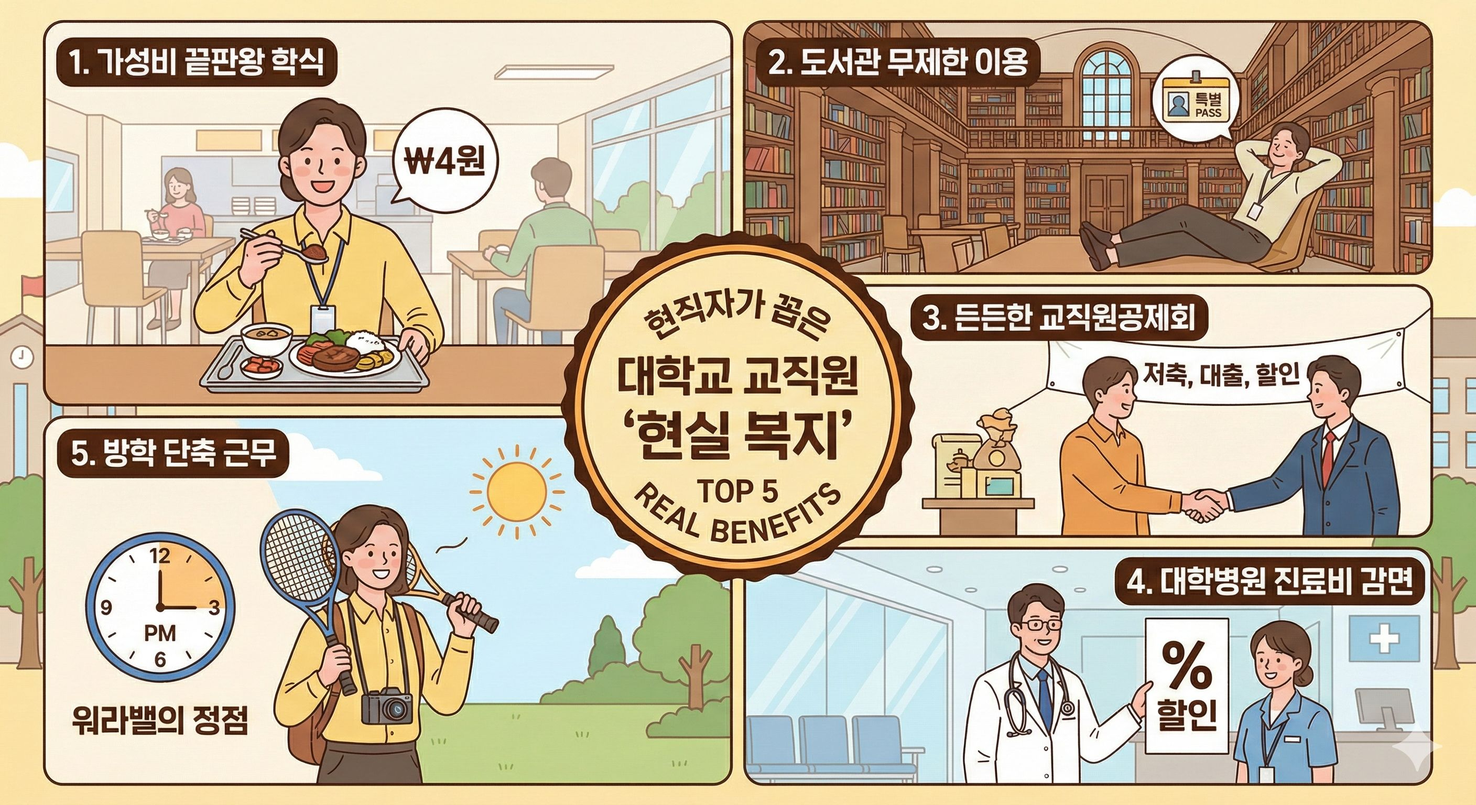
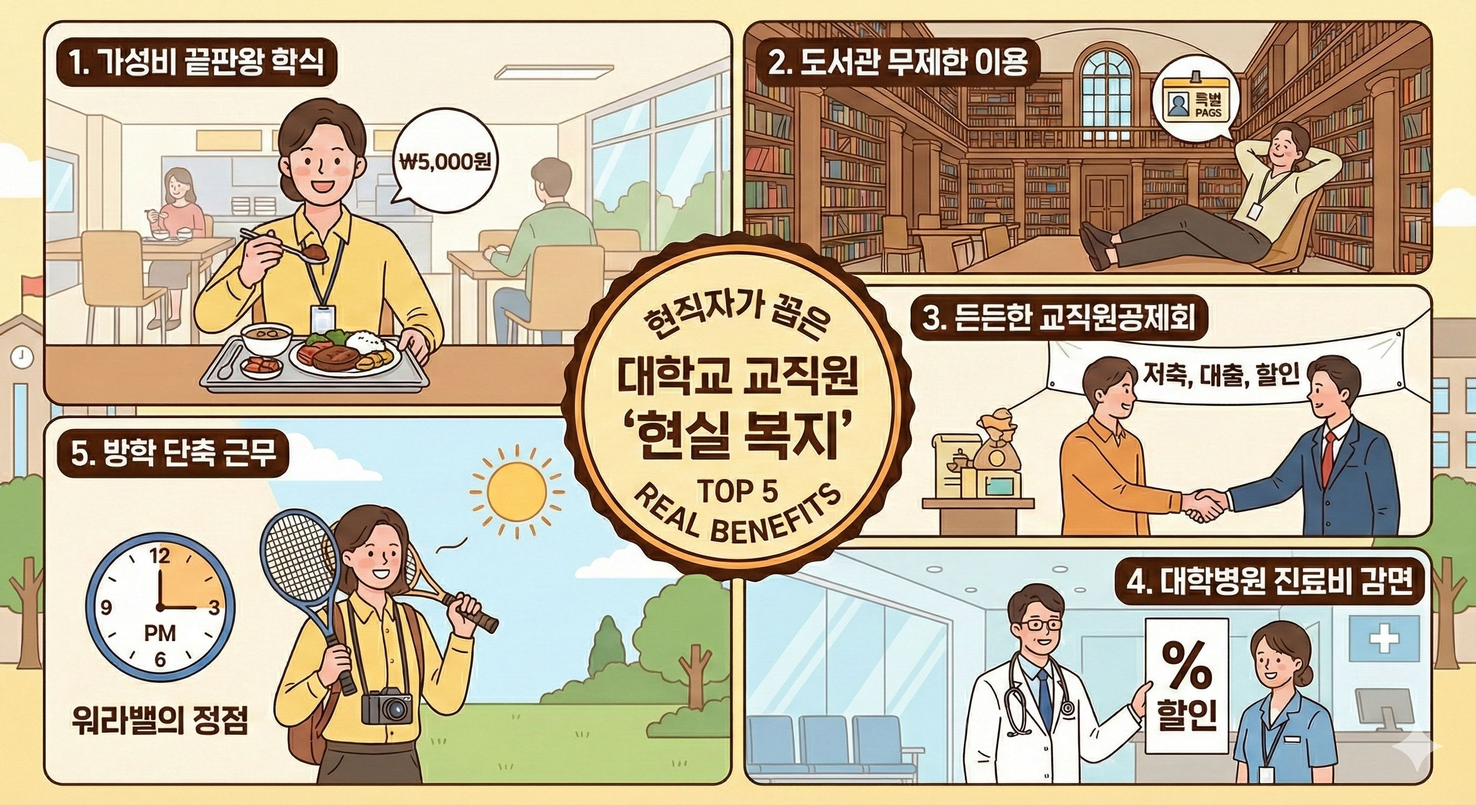
Update staff-benefits: replace image and fix price range

diff --git a/content/posts/staff-benefits.md b/content/posts/staff-benefits.md
@@ -24,7 +24,7 @@ youtube: "https://www.youtube.com/embed/NKemAsMRnNE"
 
 서울 기준 평균 점심값이 1만 원을 훌쩍 넘는 시대입니다. 한 달이면 20만 원 이상이 점심값으로만 나가는 셈이죠. 하지만 교직원에게는 '학생 식당', 일명 학식이라는 강력한 무기가 있습니다.
 
-학교마다 다르지만 보통 3,000원에서 5,000원 사이면 든든하게 한 끼를 해결할 수 있어요. 외부 식당 가격의 절반도 안 되는 거죠. 게다가 매일 메뉴가 바뀌기 때문에 골라 먹는 재미도 있습니다.
+학교마다 다르지만 보통 4,500원에서 7,000원 사이면 든든하게 한 끼를 해결할 수 있어요. 외부 식당 가격의 절반도 안 되는 거죠. 게다가 매일 메뉴가 바뀌기 때문에 골라 먹는 재미도 있습니다.
 
 저 같은 경우는 점심뿐 아니라 저녁도 학식으로 해결할 때가 많았습니다. 덕분에 한 달에 최소 10만 원 이상은 절약했어요. 사실 교직원 전용 식당도 있지만, 개인적으로는 가성비 좋은 학식을 더 자주 이용했습니다.
 
